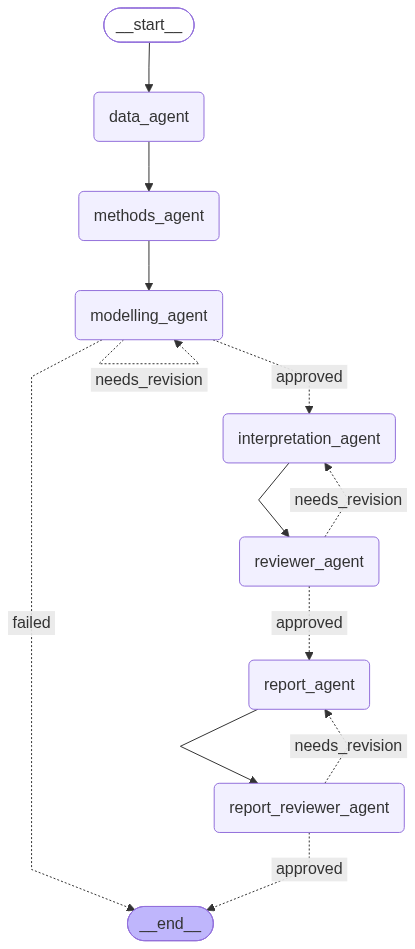
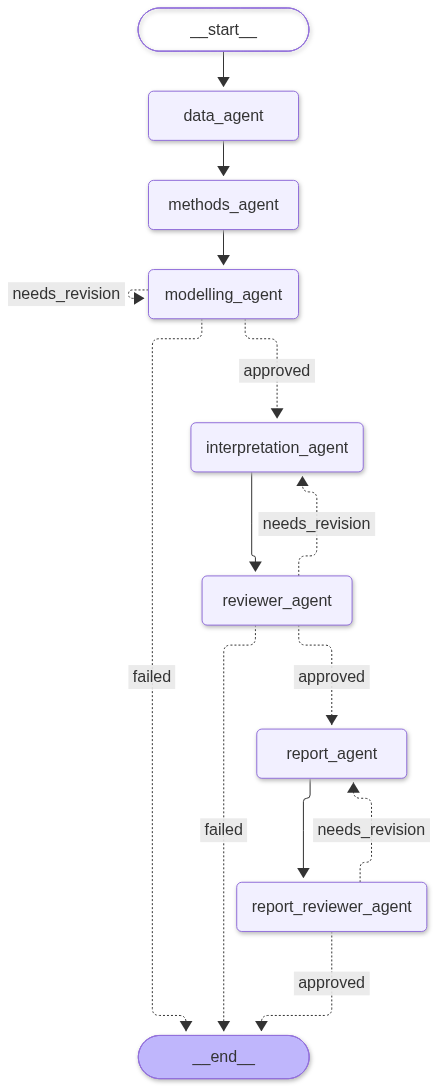
added oversight layer for statistical test results Comparing five pipeline runs showed that the reports were unreliable in ways the reviewer agents did not catch. agents still choose the test and write the code. Code now only labels and checks their results

diff --git a/oversight.py b/oversight.py
@@ -1,0 +1,102 @@
+"""Oversight layer for the AI Scientist pipeline.
+
+The agents make every decision (columns, test, code). This module never decides anything:
+it only labels the agent's results with descriptive group numbers and checks the agent's
+statistic against a reference computation.
+
+Set the environment variable OVERSIGHT to choose the level:
+  off      - nothing is added, the flow is exactly as without this module
+  log      - group numbers and verification are added and logged, but never trigger a retry
+  enforce  - like log, and a wrong statistic is marked as an error so modelling_agent retries
+"""
+import os
+import math
+import pandas as pd
+from scipy import stats
+
+OUTCOME = "Diabetes_binary"
+OVERSIGHT = os.getenv("OVERSIGHT", "enforce").lower()
+
+
+def _label(value):
+    #1.0 -> "1", so labels read like the codebook
+    value = float(value)
+    return str(int(value)) if value.is_integer() else str(value)
+
+
+def describe_groups(df, feature):
+    #descriptive numbers, computed by code for EVERY feature no matter which test the agent picked.
+    #this is not a methodological choice, just labelled facts, so it doesn't reduce autonomy
+    data = df[[feature, OUTCOME]].dropna() #this just means select from dataframe, the feature and then what dibaetes binary is, and dropna dropps every row with NaN val
+    #seperate who has diabetes and not with feature
+    no_diabetes = data.loc[data[OUTCOME] == 0, feature]
+    diabetes = data.loc[data[OUTCOME] == 1, feature]
+
+    summary = {
+        #summary of how many people comparison is based on
+        "n": len(data),
+        "n_missing_dropped": int(df[feature].isna().sum()), #how many dropped
+        "median": {"no_diabetes": float(no_diabetes.median()), "diabetes": float(diabetes.median())}, #mediam valie of those with and without diabetes
+        "mean": {"no_diabetes": round(float(no_diabetes.mean()), 3), "diabetes": round(float(diabetes.mean()), 3)},
+    }
+
+    if data[feature].nunique() <= 13:  #binary and ordinal codes: prevalence per value
+        prevalence = data.groupby(feature)[OUTCOME].mean() * 100 #splits feature into groups so of u have highBP or not for example
+        summary["diabetes_prevalence_pct"] = {f"{feature}={_label(v)}": round(float(p), 2) for v, p in prevalence.items()}#will show the split features in dict
+        if set(prevalence.index) == {0, 1}:
+            word = "HIGHER" if prevalence[1] > prevalence[0] else "LOWER"
+            #this is the line that actually tells what the comparison means, so llm doesnt need to work itself out. 
+            summary["direction"] = f"diabetes prevalence is {word} when {feature}=1 than when {feature}=0"
+
+    if "direction" not in summary:
+        word = "HIGHER" if diabetes.mean() > no_diabetes.mean() else "LOWER"
+        summary["direction"] = f"mean {feature} is {word} in the diabetes group"
+    return summary
+
+
+def verify_result(df, feature, method, statistic):
+    #independent check of the agent's number. it only recomputes, it never decides anything.
+    #both legitimate variants are accepted (Yates on/off, U for either group),
+    #so a mismatch means the generated code is actually wrong, not just a different valid choice
+    #this doesnt rewrite but it just checks against what was computed.
+    data = df[[feature, OUTCOME]].dropna()
+    m = method.lower()
+
+    if "chi" in m:
+        table = pd.crosstab(data[feature], data[OUTCOME])
+        references = {
+            "yates_correction=True": stats.chi2_contingency(table, correction=True)[0],
+            "yates_correction=False": stats.chi2_contingency(table, correction=False)[0],
+        }
+    elif "mann" in m or "whitney" in m:
+        group0 = data.loc[data[OUTCOME] == 0, feature]
+        group1 = data.loc[data[OUTCOME] == 1, feature]
+        u = stats.mannwhitneyu(group0, group1).statistic
+        references = {"U_for_no_diabetes_group": u, "U_for_diabetes_group": len(group0) * len(group1) - u}
+    else:
+        return {"status": "unverified", "reason": f"no reference implementation for '{method}'"}
+
+    for variant, reference in references.items():
+        if math.isclose(statistic, float(reference), rel_tol=1e-4):
+            return {"status": "verified", "matched_variant": variant}
+    return {"status": "mismatch", "reference_statistics": {k: float(v) for k, v in references.items()}}
+
+
+def add_oversight(calculated, df, feature, method):
+    """Add labelled group numbers and a verification to one test result from modelling_agent."""
+    if OVERSIGHT == "off":
+        return calculated
+
+    calculated["method"] = method
+    calculated["oversight_level"] = OVERSIGHT
+    calculated["groups"] = describe_groups(df, feature)
+    calculated["verification"] = verify_result(df, feature, method, calculated["statistic"])
+
+    #only in enforce mode does a wrong number count as an error,
+    #so the existing retry loop in route_after_modelling sends it back to the agent
+    if OVERSIGHT == "enforce" and calculated["verification"]["status"] == "mismatch":
+        calculated["error"] = (
+            f"statistic {calculated['statistic']} does not match a reference computation: "
+            f"{calculated['verification']['reference_statistics']}"
+        )
+    return calculated
